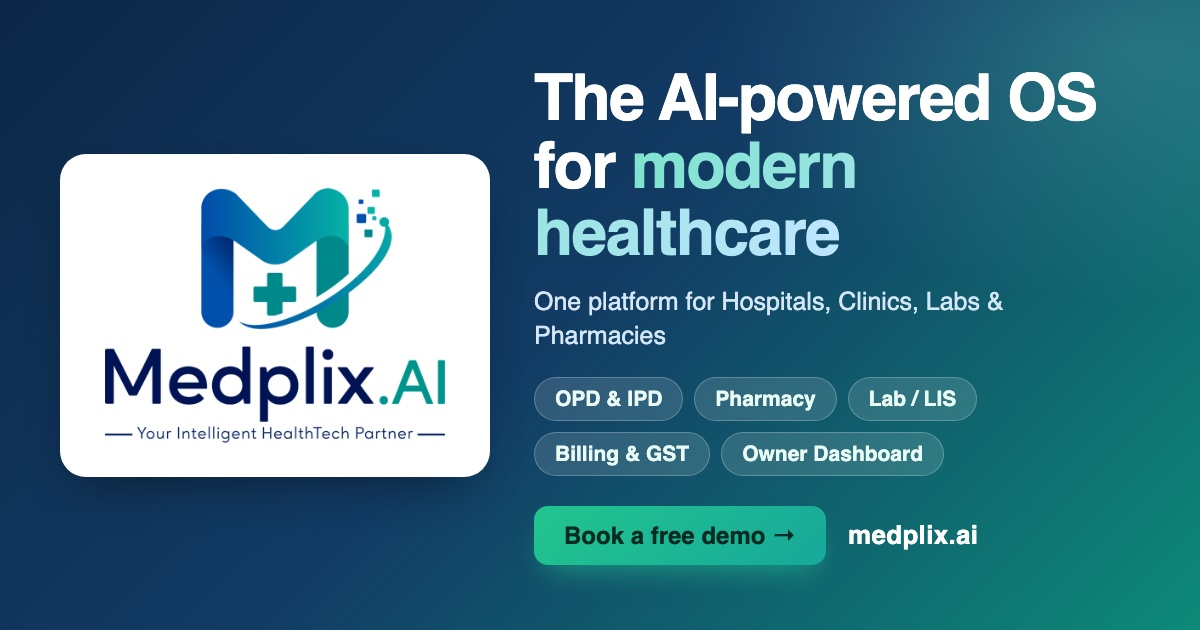
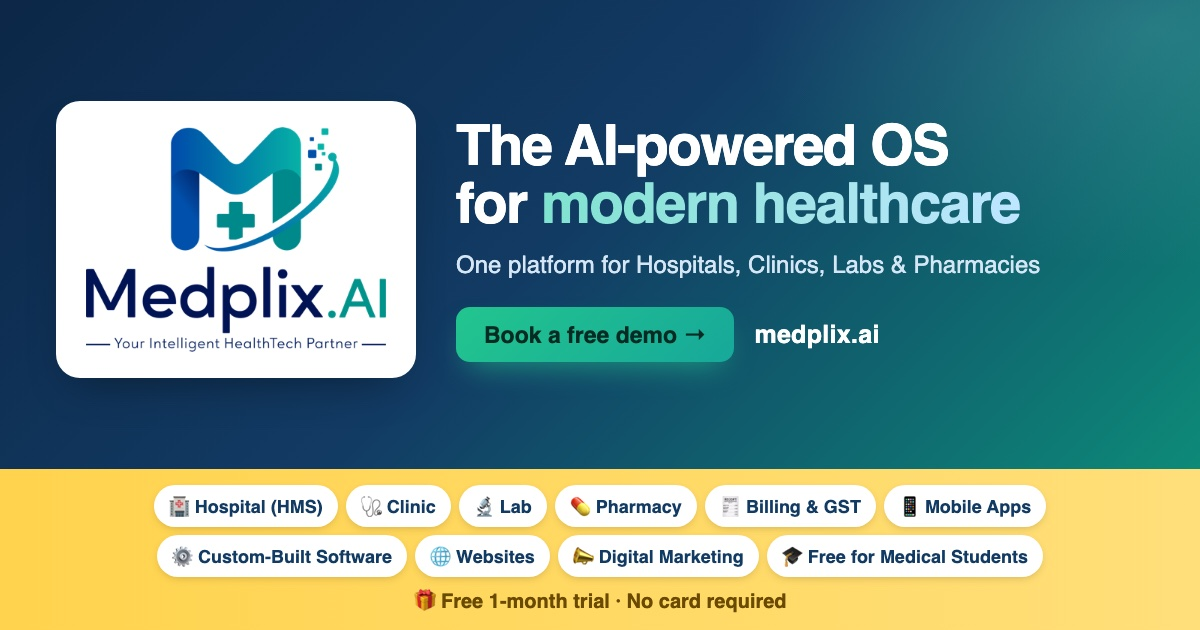
Share card: add yellow footer with full offering chips + free trial
Keep the logo-left / AI-powered-OS layout and add a full-width yellow
footer band listing every offering as white pill chips — Hospital (HMS),
Clinic, Lab, Pharmacy, Billing & GST, Mobile Apps, Custom-Built
Software, Websites, Digital Marketing, Free for Medical Students — with
a "🎁 Free 1-month trial · No card required" line. Removes the redundant
right-column module chips. og:image → ?v=13.

diff --git a/index.html b/index.html
@@ -22,7 +22,7 @@
   <meta property="og:title" content="Medplix.AI — The AI-powered OS for modern healthcare" />
   <meta property="og:description" content="One platform for Hospitals, Clinics, Labs &amp; Pharmacies — OPD &amp; IPD, Pharmacy, Lab/LIS, GST billing &amp; owner dashboard, plus custom builds, websites &amp; marketing. Book a free demo." />
   <meta property="og:url" content="https://www.medplix.ai/" />
-  <meta property="og:image" content="https://www.medplix.ai/assets/og-image.jpg?v=12" />
+  <meta property="og:image" content="https://www.medplix.ai/assets/og-image.jpg?v=13" />
   <meta property="og:image:width" content="1200" />
   <meta property="og:image:height" content="630" />
   <meta property="og:image:type" content="image/jpeg" />
@@ -30,7 +30,7 @@
   <meta name="twitter:card" content="summary_large_image" />
   <meta name="twitter:title" content="Medplix.AI — AI-powered healthcare management" />
   <meta name="twitter:description" content="Run your whole hospital, clinic, lab or pharmacy on one connected, AI-powered system. Book a free demo." />
-  <meta name="twitter:image" content="https://www.medplix.ai/assets/og-image.jpg?v=12" />
+  <meta name="twitter:image" content="https://www.medplix.ai/assets/og-image.jpg?v=13" />
 
   <!-- ===== ICONS / MANIFEST ===== -->
   <link rel="icon" type="image/png" sizes="32x32" href="assets/favicon-32.png?v=4" />

diff --git a/product-pharmacy.html b/product-pharmacy.html
@@ -9,7 +9,7 @@
   <meta name="theme-color" content="#0f2c4d" />
   <meta property="og:title" content="Medplix Pharmacy — Pharmacy Billing & Inventory Software" />
   <meta property="og:description" content="Fast billing, tight inventory and zero stock leakage — fully GST-ready. ₹499/month." />
-  <meta property="og:image" content="https://www.medplix.ai/assets/og-image.jpg?v=12" />
+  <meta property="og:image" content="https://www.medplix.ai/assets/og-image.jpg?v=13" />
   <link rel="icon" type="image/png" sizes="32x32" href="assets/favicon-32.png?v=4" />
   <link rel="icon" type="image/png" sizes="16x16" href="assets/favicon-16.png?v=4" />
   <link rel="apple-touch-icon" sizes="180x180" href="assets/apple-touch-icon.png?v=4" />

diff --git a/product-labs.html b/product-labs.html
@@ -9,7 +9,7 @@
   <meta name="theme-color" content="#0f2c4d" />
   <meta property="og:title" content="Medplix Labs — Complete Laboratory Software (LIS)" />
   <meta property="og:description" content="From sample collection to auto-delivered reports — a complete lab system. ₹499/month." />
-  <meta property="og:image" content="https://www.medplix.ai/assets/og-image.jpg?v=12" />
+  <meta property="og:image" content="https://www.medplix.ai/assets/og-image.jpg?v=13" />
   <link rel="icon" type="image/png" sizes="32x32" href="assets/favicon-32.png?v=4" />
   <link rel="icon" type="image/png" sizes="16x16" href="assets/favicon-16.png?v=4" />
   <link rel="apple-touch-icon" sizes="180x180" href="assets/apple-touch-icon.png?v=4" />

diff --git a/product-clinic.html b/product-clinic.html
@@ -9,7 +9,7 @@
   <meta name="theme-color" content="#0f2c4d" />
   <meta property="og:title" content="Medplix Clinic — Complete Clinic Management Software" />
   <meta property="og:description" content="Appointments to billing for fast, paperless OPD clinics & daycare. ₹499/month." />
-  <meta property="og:image" content="https://www.medplix.ai/assets/og-image.jpg?v=12" />
+  <meta property="og:image" content="https://www.medplix.ai/assets/og-image.jpg?v=13" />
   <link rel="icon" type="image/png" sizes="32x32" href="assets/favicon-32.png?v=4" />
   <link rel="icon" type="image/png" sizes="16x16" href="assets/favicon-16.png?v=4" />
   <link rel="apple-touch-icon" sizes="180x180" href="assets/apple-touch-icon.png?v=4" />

diff --git a/product-hms.html b/product-hms.html
@@ -9,7 +9,7 @@
   <meta name="theme-color" content="#0f2c4d" />
   <meta property="og:title" content="Medplix HMS — Complete Hospital Management Software" />
   <meta property="og:description" content="Run your whole hospital on one connected, AI-powered system. ₹1,250/month." />
-  <meta property="og:image" content="https://www.medplix.ai/assets/og-image.jpg?v=12" />
+  <meta property="og:image" content="https://www.medplix.ai/assets/og-image.jpg?v=13" />
   <link rel="icon" type="image/png" sizes="32x32" href="assets/favicon-32.png?v=4" />
   <link rel="icon" type="image/png" sizes="16x16" href="assets/favicon-16.png?v=4" />
   <link rel="apple-touch-icon" sizes="180x180" href="assets/apple-touch-icon.png?v=4" />
